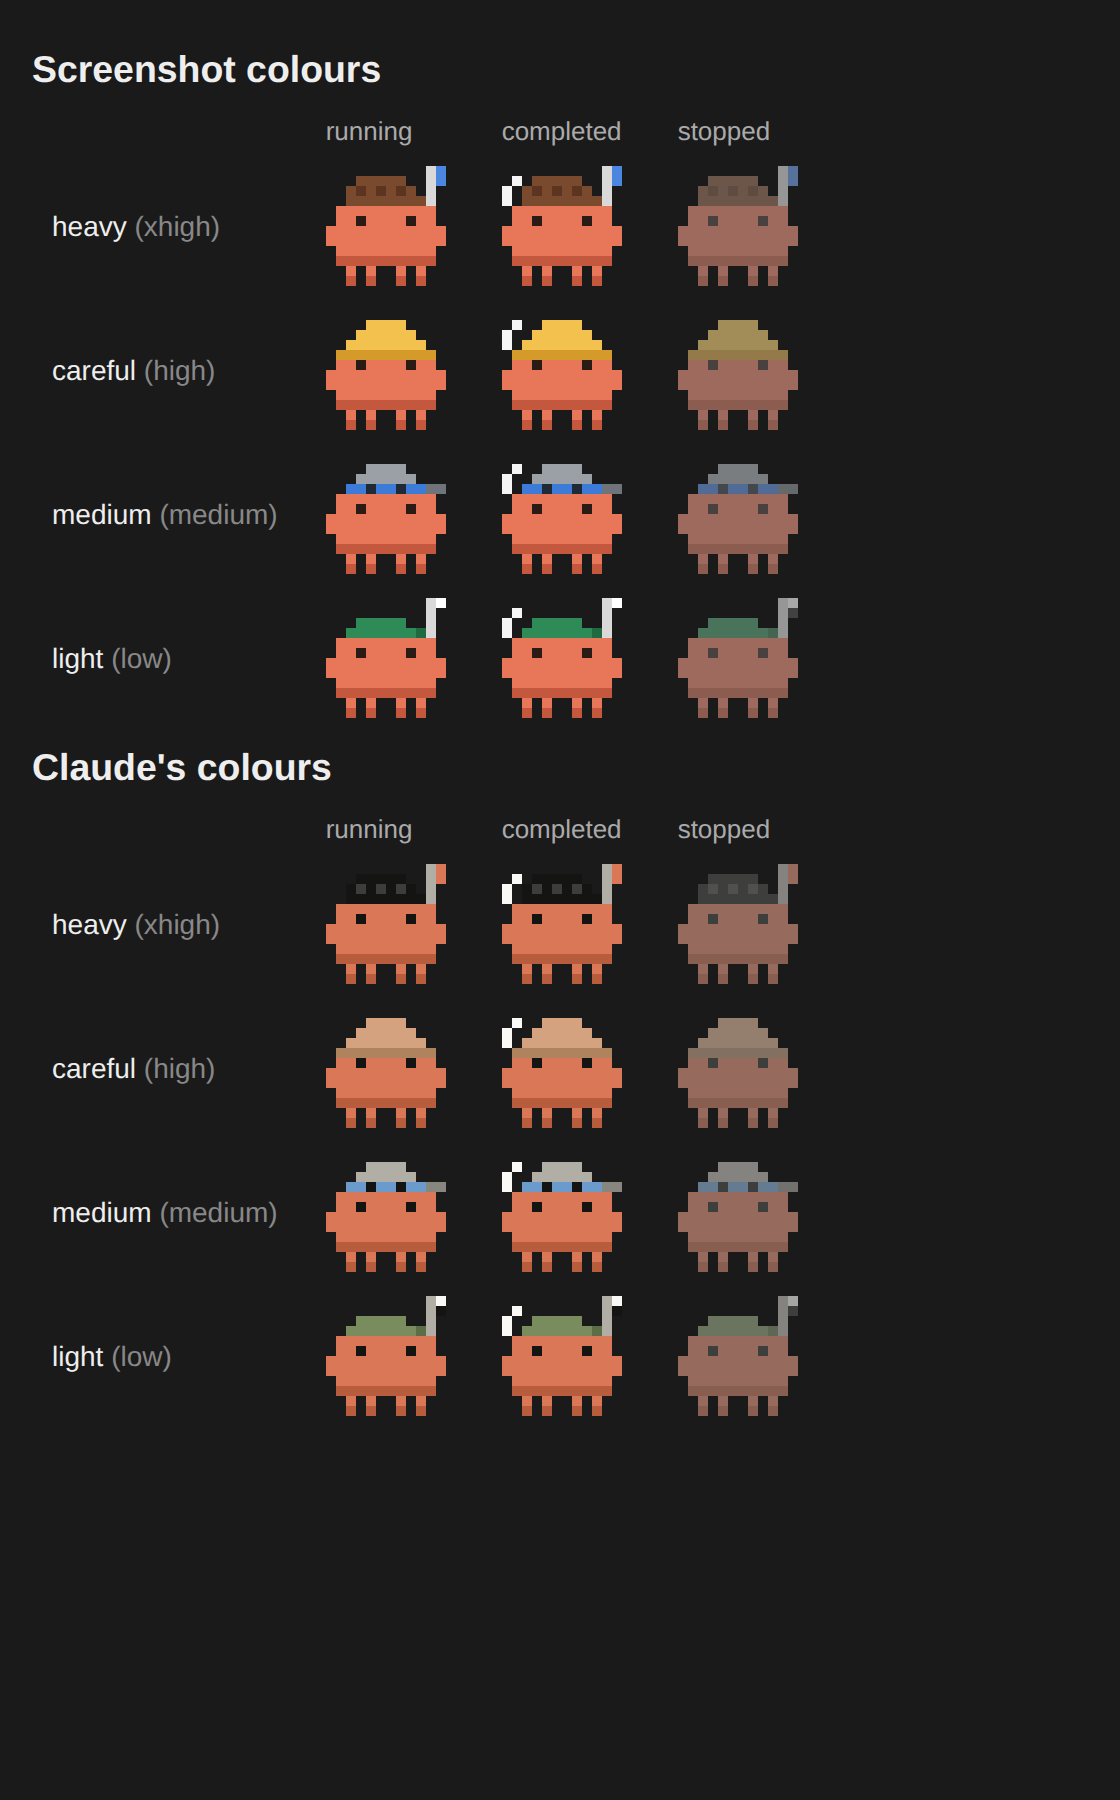
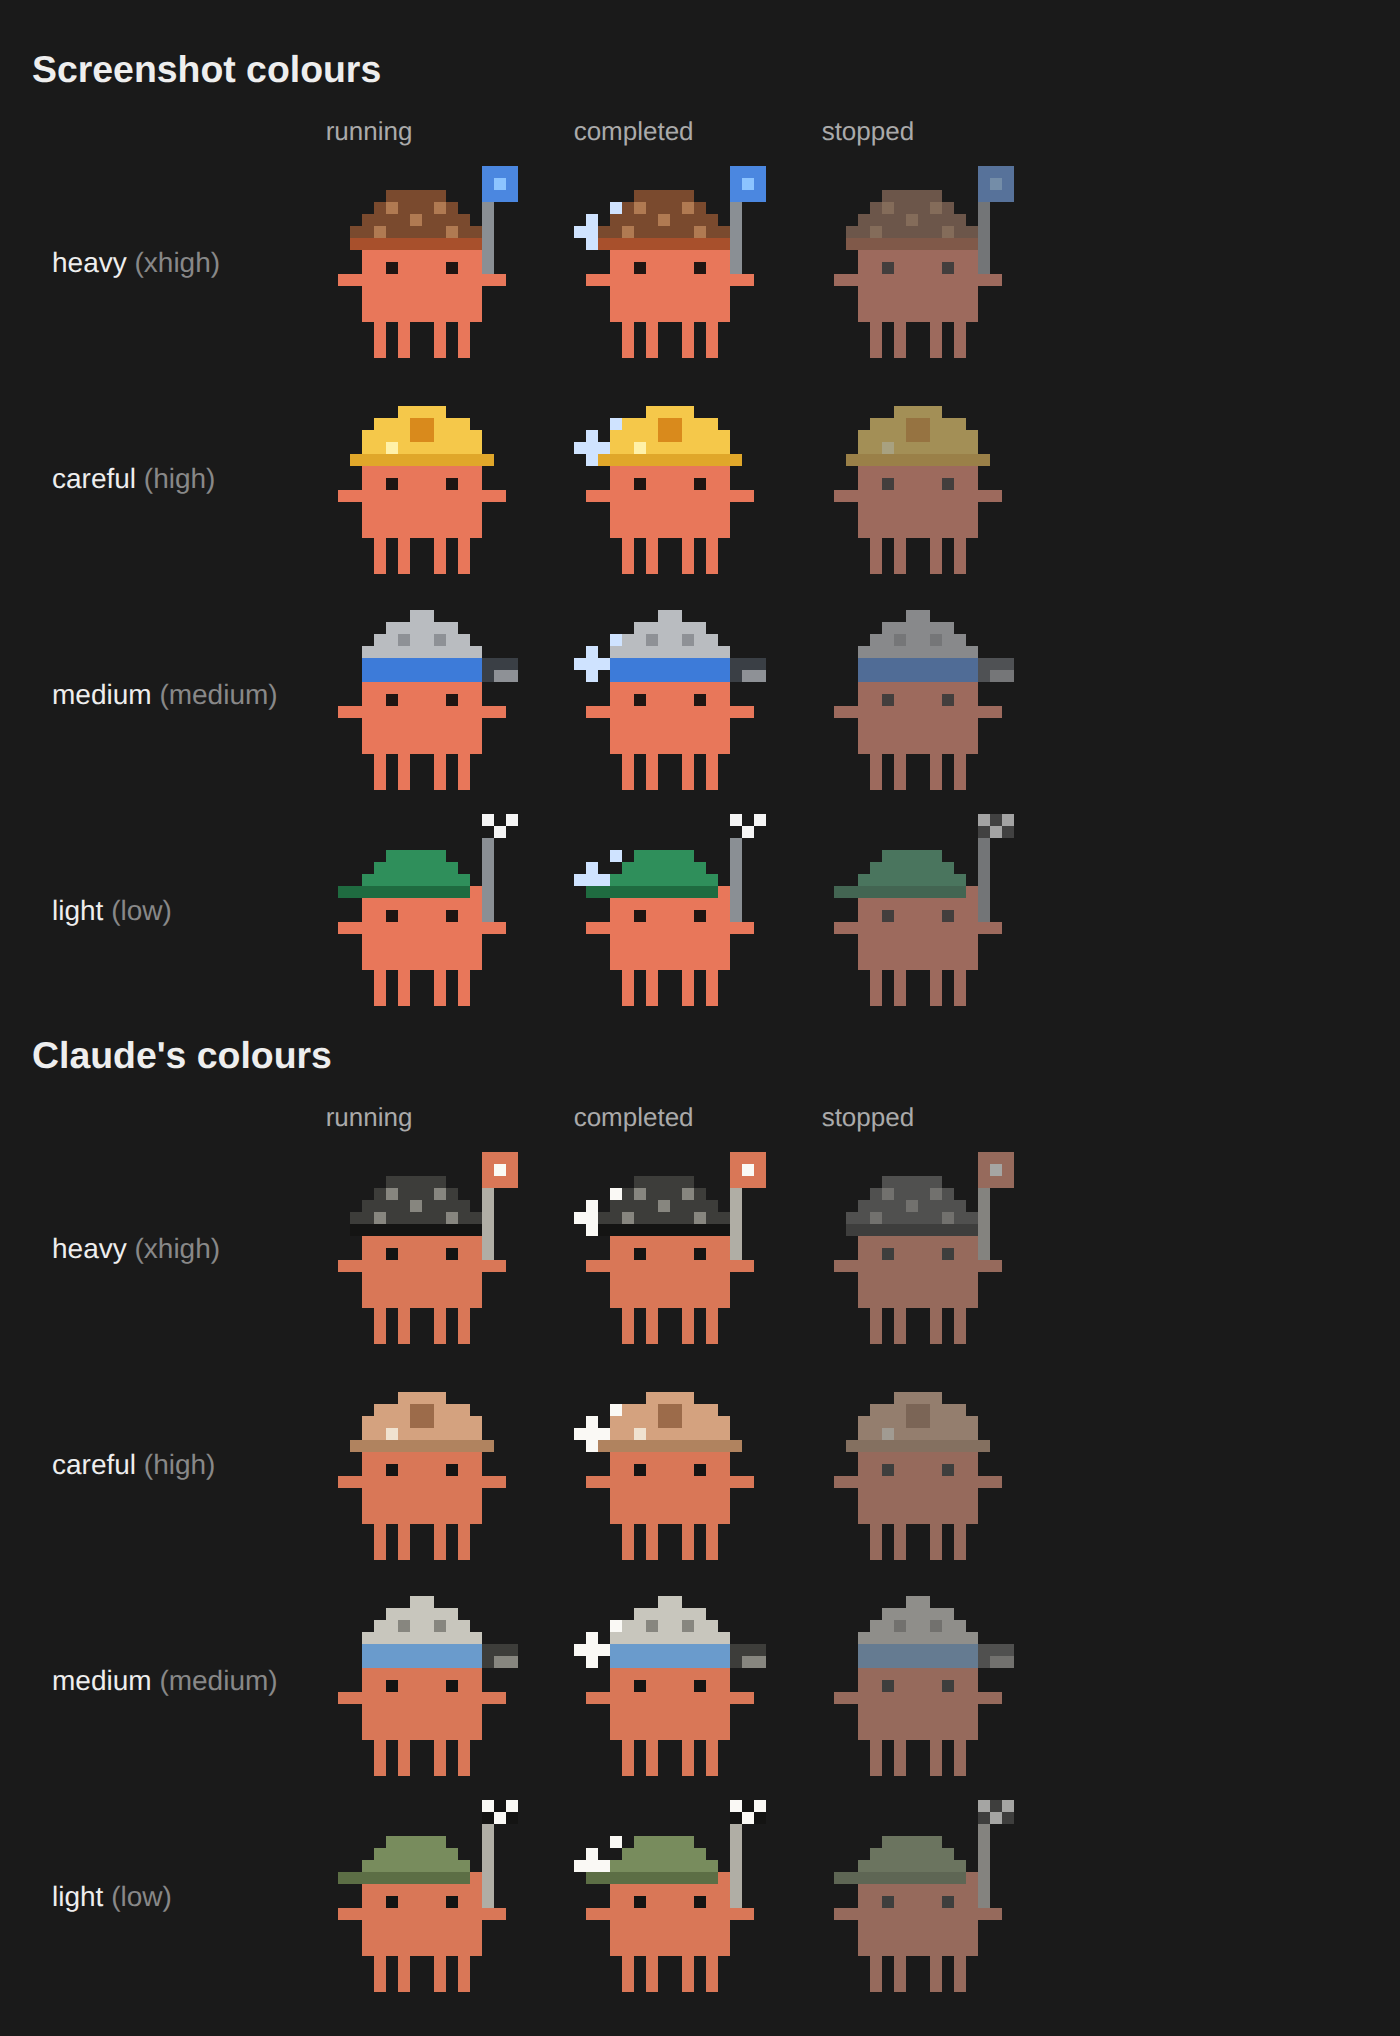
agents-panel 0.3.0: more detailed 16x16 mascots
Mascots now follow Claude Code's mascot shape (square head, arms, four
long legs) with detailed hats: speckled beanie with a blue flag, hard hat
with badge and highlight, ridged helmet with goggles band and visor,
green cap with a chequered flag; a twinkle sparkle when done.

Claude-Session: https://claude.ai/code/session_01VP3U7vqvm5LEx7rSEmcrb4

diff --git a/claude-mods/agents-panel/hooks/sprite.ts b/claude-mods/agents-panel/hooks/sprite.ts
@@ -1,105 +1,130 @@
 import type { AgentStatus } from '../types'
 
-// 12 x 12 pixel critters. Letters are palette slots; '.' is transparent.
-//   B body  D body shade  E eye  H hat  h hat shade  A accent  a accent 2  P flag pole  S sparkle
-const SIZE = 12
+// 16 x 16 pixel critters in the shape of Claude Code's mascot. Letters are palette slots; '.' is transparent.
+//   B body  E eye  H hat  h hat detail  d hat shade  A accent  a accent 2  P flag pole  S sparkle
+const SIZE = 16
 
 const BODY = [
-  '............',
-  '............',
-  '............',
-  '..BBBBBBBB..',
-  '.BBBBBBBBBB.',
-  '.BBEBBBBEBB.',
-  'BBBBBBBBBBBB',
-  'BBBBBBBBBBBB',
-  '.BBBBBBBBBB.',
-  '.DDDDDDDDDD.',
+  '................',
+  '................',
+  '................',
+  '................',
+  '................',
+  '................',
+  '...BBBBBBBBBB...',
+  '...BBBBBBBBBB...',
+  '...BBEBBBBEBB...',
+  '.BBBBBBBBBBBBBB.',
+  '...BBBBBBBBBB...',
+  '...BBBBBBBBBB...',
+  '...BBBBBBBBBB...',
 ]
 
-const LEGS: [string, string][] = [
-  ['..B.B..B.B..', '..D.D..D.D..'],
-  ['.B.B....B.B.', '.D.D....D.D.'],
+// Two walking frames: all four legs down, then the second and fourth lifted.
+const LEGS: string[][] = [
+  ['....B.B..B.B....', '....B.B..B.B....', '....B.B..B.B....'],
+  ['....B.B..B.B....', '....B.B..B.B....', '....B....B......'],
 ]
 
-// Drawn over the top rows of the body, one per effort tier.
+// Drawn over the body's top rows, one per effort tier.
 const HATS: Record<string, string[]> = {
-  // beanie with a flag on a pole
+  // speckled beanie, with a blue flag on a pole
   heavy: [
-    '..........PA',
-    '...HHHHH..PA',
-    '..HhHhHhH.P.',
-    '..HHHHHHHHP.',
+    '.............aaa',
+    '.............aAa',
+    '.....HHHHH...aaa',
+    '....HhHHHhH..P..',
+    '...HHHHhHHHH.P..',
+    '..HHhHHHHHhHHP..',
+    '..dddddddddddP..',
+    '.............P..',
+    '.............P..',
   ],
-  // hard hat with a wide brim
+  // hard hat with a badge, a highlight and a wide brim
   careful: [
-    '............',
-    '....HHHH....',
-    '...HHHHHH...',
-    '..HHHHHHHH..',
-    '.hhhhhhhhhh.',
+    '................',
+    '................',
+    '......HHHH......',
+    '....HHHAAHHH....',
+    '...HHHHAAHHHH...',
+    '...HHhHHHHHHH...',
+    '..dddddddddddd..',
   ],
-  // cap with goggles and a peak to the right
+  // ridged helmet with a goggles band and a visor sticking out to the right
   medium: [
-    '............',
-    '....HHHH....',
-    '...HHHHHH...',
-    '..AAaAAaAAhh',
+    '................',
+    '.......HH.......',
+    '.....HHHHHH.....',
+    '....HHdHHdHH....',
+    '...HHHHHHHHHH...',
+    '...AAAAAAAAAAaaa',
+    '...AAAAAAAAAAahh',
   ],
-  // small cap with a chequered flag
+  // green cap with a chequered flag on a pole
   light: [
-    '..........PA',
-    '..........Pa',
-    '...HHHHH..P.',
-    '..HHHHHHHhP.',
+    '.............hAh',
+    '.............AhA',
+    '.............P..',
+    '.....HHHHH...P..',
+    '....HHHHHHH..P..',
+    '...HHHHHHHHH.P..',
+    '.ddddddddddd.P..',
+    '.............P..',
+    '.............P..',
   ],
+  // plain cap for an effort level Claude Code does not name
   custom: [
-    '............',
-    '............',
-    '...HHHHHH...',
-    '..HHHHHHHH..',
+    '................',
+    '................',
+    '................',
+    '.....HHHHHH.....',
+    '....HHHHHHHH....',
+    '...HHHHHHHHHH...',
+    '...dddddddddd...',
   ],
 }
 
+// A twinkle to the left of an agent that finished.
 const SPARKLE = [
-  [2, 0],
-  [3, 0],
-  [1, 1],
+  [4, 1],
+  [5, 0],
+  [5, 1],
+  [5, 2],
+  [6, 1],
+  [3, 3],
 ] as const
 
 export type MascotTheme = 'screenshot' | 'claude'
 
-type Palette = { B: number; D: number; E: number; P: number; S: number; hats: Record<string, { H: number; h: number; A: number; a: number }> }
+type Palette = { B: number; E: number; P: number; S: number; hats: Record<string, { H: number; h: number; d: number; A: number; a: number }> }
 
 export const THEMES: Record<MascotTheme, Palette> = {
   // The colours of the reference screenshot: coral critters, tier-coloured hats.
   screenshot: {
     B: 0xe8775a,
-    D: 0xc4583e,
-    E: 0x2b1b17,
-    P: 0xd9d9d9,
-    S: 0xf5f5f5,
+    E: 0x1f1512,
+    P: 0x8a8f94,
+    S: 0xcfe3ff,
     hats: {
-      heavy: { H: 0x7a4a2e, h: 0x5c3420, A: 0x4b87e0, a: 0x4b87e0 },
-      careful: { H: 0xf2c14e, h: 0xd49a2a, A: 0xf2c14e, a: 0xf2c14e },
-      medium: { H: 0x9aa0a6, h: 0x6e747a, A: 0x3d7bd9, a: 0x1f2a36 },
-      light: { H: 0x2e8b57, h: 0x1f6b40, A: 0xffffff, a: 0x1a1a1a },
-      custom: { H: 0x9aa0a6, h: 0x6e747a, A: 0x9aa0a6, a: 0x9aa0a6 },
+      heavy: { H: 0x7a4a2e, h: 0xb07a52, d: 0xa8502c, A: 0x8cc4ff, a: 0x4b87e0 },
+      careful: { H: 0xf5c84a, h: 0xfff1a8, d: 0xe0a72a, A: 0xd98a1c, a: 0xd98a1c },
+      medium: { H: 0xb9bcc0, h: 0x8e9196, d: 0x8e9196, A: 0x3d7bd9, a: 0x3a3f45 },
+      light: { H: 0x2f8f5b, h: 0xf5f5f5, d: 0x1f6b40, A: 0x1a1a1a, a: 0x1a1a1a },
+      custom: { H: 0x9aa0a6, h: 0x6e747a, d: 0x6e747a, A: 0x9aa0a6, a: 0x9aa0a6 },
     },
   },
   // Claude's palette: the terracotta of Claude Code's own mascot, with Anthropic's accent colours.
   claude: {
     B: 0xd97757,
-    D: 0xb85c3e,
     E: 0x141413,
     P: 0xb0aea5,
     S: 0xfaf9f5,
     hats: {
-      heavy: { H: 0x141413, h: 0x3d3d3a, A: 0xd97757, a: 0xd97757 },
-      careful: { H: 0xd4a27f, h: 0xb0835f, A: 0xd4a27f, a: 0xd4a27f },
-      medium: { H: 0xb0aea5, h: 0x87867f, A: 0x6a9bcc, a: 0x141413 },
-      light: { H: 0x788c5d, h: 0x5c6e45, A: 0xfaf9f5, a: 0x141413 },
-      custom: { H: 0xb0aea5, h: 0x87867f, A: 0xb0aea5, a: 0xb0aea5 },
+      heavy: { H: 0x3d3d3a, h: 0x87867f, d: 0x141413, A: 0xfaf9f5, a: 0xd97757 },
+      careful: { H: 0xd4a27f, h: 0xf0e2d0, d: 0xb0835f, A: 0x9c6b4a, a: 0x9c6b4a },
+      medium: { H: 0xc8c6bd, h: 0x87867f, d: 0x87867f, A: 0x6a9bcc, a: 0x3d3d3a },
+      light: { H: 0x788c5d, h: 0xfaf9f5, d: 0x5c6e45, A: 0x141413, a: 0x141413 },
+      custom: { H: 0xb0aea5, h: 0x87867f, d: 0x87867f, A: 0xb0aea5, a: 0xb0aea5 },
     },
   },
 }
@@ -114,22 +139,21 @@ const mute = (rgb: number): number => {
   return (mix(ch(16)) << 16) | (mix(ch(8)) << 8) | mix(ch(0))
 }
 
-/** The sprite as a 12 x 12 grid of 0xRRGGBB colours, -1 where transparent. */
+/** The sprite as a 16 x 16 grid of 0xRRGGBB colours, -1 where transparent. */
 export const spritePixels = (tier: string, status: AgentStatus, frame: number, theme: MascotTheme): number[][] => {
   const palette = THEMES[theme]
   const hatColours = palette.hats[tier] ?? palette.hats.custom!
   const rows = [...BODY, ...(LEGS[status === 'running' ? frame % 2 : 0] ?? LEGS[0]!)].map(r => r.split(''))
+  if (status === 'completed') for (const [y, x] of SPARKLE) rows[y]![x] = 'S'
   const hat = HATS[tier] ?? HATS.custom!
   hat.forEach((line, y) =>
     line.split('').forEach((ch, x) => {
       if (ch !== '.') rows[y]![x] = ch
     }),
   )
-  if (status === 'completed') for (const [y, x] of SPARKLE) rows[y]![x] = 'S'
 
   const colour: Record<string, number> = {
     B: palette.B,
-    D: palette.D,
     E: palette.E,
     P: palette.P,
     S: palette.S,

diff --git a/claude-mods/agents-panel/hooks/register.test.ts b/claude-mods/agents-panel/hooks/register.test.ts
@@ -39,18 +39,19 @@ test('mascots wear a hat per tier and walk while running', () => {
 
 test('pixel sprites differ per tier and theme, walk, sparkle and fade', () => {
   const heavy = spritePixels('heavy', 'running', 0, 'screenshot')
-  expect(heavy.length).toBe(12)
-  expect(heavy.every(row => row.length === 12)).toBe(true)
-  expect(heavy[6]![0]).toBe(0xe8775a)
-  expect(spritePixels('heavy', 'running', 0, 'claude')[6]![0]).toBe(0xd97757)
+  expect(heavy.length).toBe(16)
+  expect(heavy.every(row => row.length === 16)).toBe(true)
+  expect(heavy[9]![1]).toBe(0xe8775a)
+  expect(spritePixels('heavy', 'running', 0, 'claude')[9]![1]).toBe(0xd97757)
   const hatRows = (t: string) => JSON.stringify(spritePixels(t, 'running', 0, 'screenshot').slice(0, 5))
   expect(new Set(['light', 'medium', 'careful', 'heavy'].map(hatRows)).size).toBe(4)
   expect(JSON.stringify(spritePixels('light', 'running', 1, 'screenshot'))).not.toBe(JSON.stringify(spritePixels('light', 'running', 0, 'screenshot')))
-  expect(spritePixels('careful', 'completed', 0, 'screenshot')[2]![0]).not.toBe(-1)
-  expect(spritePixels('careful', 'failed', 0, 'screenshot')[6]![0]).not.toBe(0xe8775a)
+  expect(spritePixels('careful', 'completed', 0, 'screenshot')[5]![0]).not.toBe(-1)
+  expect(spritePixels('careful', 'running', 0, 'screenshot')[5]![0]).toBe(-1)
+  expect(spritePixels('careful', 'failed', 0, 'screenshot')[9]![1]).not.toBe(0xe8775a)
   const grid = rasterCells(heavy)
-  expect([grid.columns, grid.rows]).toEqual([12, 6])
-  expect(atob(grid.cells).length).toBe(12 * 6 * 12)
+  expect([grid.columns, grid.rows]).toEqual([16, 8])
+  expect(atob(grid.cells).length).toBe(16 * 8 * 12)
   expect(spriteSvg(heavy)).toContain('fill="#e8775a"')
 })
 

diff --git a/claude-mods/agents-panel/hooks/register.tsx b/claude-mods/agents-panel/hooks/register.tsx
@@ -250,7 +250,7 @@ export const register: Register = (on, options) => {
     const window = (await read($, contextWindow)) || 200_000
     const isCollapsed = await read($, isCompletedCollapsed)
     const width = Math.max(20, (e.props.bodyColumns || 40) - 2)
-    const barWidth = Math.max(10, width - (e.surface === 'terminal' ? 16 : 10))
+    const barWidth = Math.max(10, width - (e.surface === 'terminal' ? 20 : 10))
 
     if (list.length === 0) {
       return <Text dimColor>No agents yet. Subagents appear here as soon as Claude starts one.</Text>
@@ -282,7 +282,7 @@ export const register: Register = (on, options) => {
         const grid = rasterCells(pixels)
 
         return (
-          <Box flexDirection="column" width={13} flexShrink={0}>
+          <Box flexDirection="column" width={17} flexShrink={0}>
             <Raster key={`m-${r.id}`} columns={grid.columns} rows={grid.rows} cells={grid.cells} />
           </Box>
         )
@@ -291,8 +291,8 @@ export const register: Register = (on, options) => {
         const { Svg } = elements
 
         return (
-          <Box flexDirection="column" width={6} flexShrink={0}>
-            <Svg source={spriteSvg(pixels)} alt={alt} width={36} height={36} />
+          <Box flexDirection="column" width={7} flexShrink={0}>
+            <Svg source={spriteSvg(pixels)} alt={alt} width={48} height={48} />
           </Box>
         )
       }

diff --git a/claude-mods/MACHINES.md b/claude-mods/MACHINES.md
@@ -15,7 +15,7 @@ Last updated: 2026-10-04
 | Setup | **Recommended**: status-band, activity-pane, task-board, agents-panel | **Standalone**: usage-meter, turn-timer, activity-pane, task-board, agents-panel | **Standalone** (same as home PC) |
 | How to install | Manual copy (Mac steps below) | `install-windows.ps1` | `install-windows.ps1`; if scripts are blocked, manual steps |
 | status-band | Built locally on this Mac (not in the repo) | Not available until copied into the repo | Not available until copied into the repo |
-| State | Installed. Copy the new agents-panel 0.2.0 (pixel mascots) | Instructions given. Check the settings line uses `marcu`, not `MZIYEUNG` | Not installed yet |
+| State | Installed. Copy the new agents-panel 0.3.0 (detailed pixel mascots) | Instructions given. Check the settings line uses `marcu`, not `MZIYEUNG` | Not installed yet |
 
 Notes:
 - The Mac's `~/.claude/mods` also holds old `usage-meter` and `turn-timer` folders. They stay
@@ -115,3 +115,4 @@ Try the installer as above. If PowerShell refuses to run it:
 | 2026-10-04 | Mac: status-band (built locally) replaces usage-meter and turn-timer. Installer and README updated to match. |
 | 2026-10-04 | agents-panel: mascots added (hat shape per effort tier, legs walk while running). |
 | 2026-10-04 | agents-panel 0.2.0: pixel-art mascots like the reference screenshot; colour themes `screenshot` (default), `claude`, `simple` in `/config`. Copy the new agents-panel folder to each machine. |
+| 2026-10-04 | agents-panel 0.3.0: more detailed 16x16 mascots in Claude Code's mascot shape (arms, four legs), speckled beanie with flag, hard hat with badge, ridged helmet with goggles band and visor, cap with chequered flag, twinkle sparkle. |

diff --git a/claude-mods/agents-panel/README.md b/claude-mods/agents-panel/README.md
@@ -3,8 +3,9 @@
 A side panel showing every subagent Claude starts in a session.
 
 - **Totals** across all agents: cost, tokens and elapsed time.
-- **A pixel-art mascot per agent**: its hat shows the effort tier (beanie and flag = heavy,
-  hard hat = careful, cap and goggles = medium, green cap and chequered flag = light). Its legs
+- **A 16x16 pixel-art mascot per agent** in the shape of Claude Code's mascot. Its hat shows the
+  effort tier (speckled beanie and blue flag = heavy, hard hat with badge = careful, ridged helmet
+  with goggles and visor = medium, green cap and chequered flag = light). See `mascots-preview.png`. Its legs
   walk while it runs, a sparkle appears when it finishes, and it fades if stopped or failed.
   Drawn as a pixel grid in the terminal and as a vector image in VS Code and the desktop app.
 - **Running** agents, each with its task, a tier word from its effort (light, medium,
